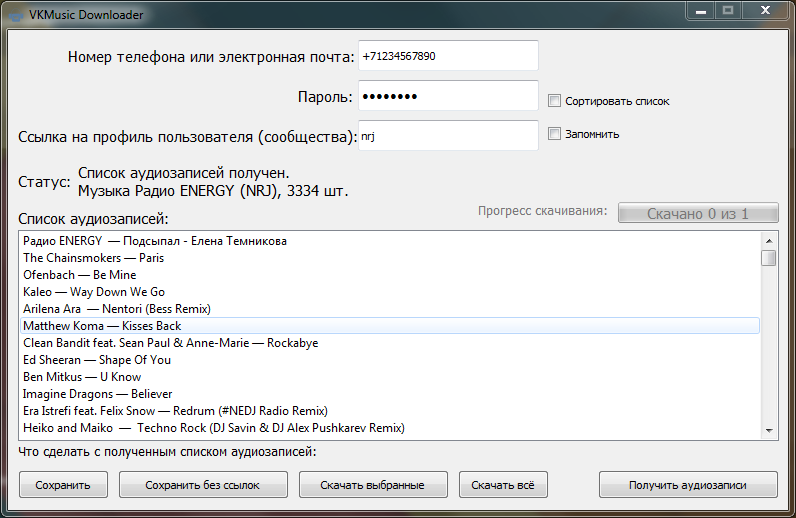
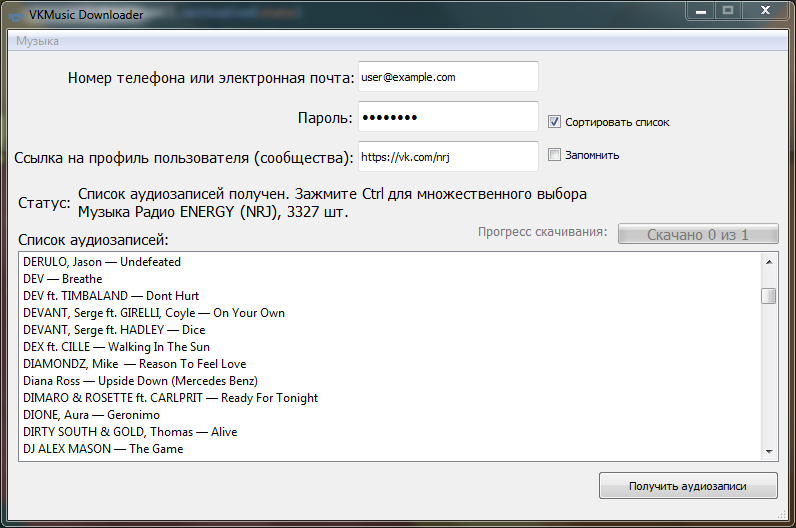
Версия 0.3.0: - Теперь возможно прослушивать аудиозаписи прямо в программе - возможность управлять воспроизведением (кроме перемотки) - небольшой редизайн графического интерфейса - добавлены сочетаня клавиш для управления списком аудиозаписей

Changed region(s): [[0.0, 0.0, 0.995, 0.9884], [0.0, 0.9266, 0.6935, 0.9884], [0.9648, 0.556, 0.995, 0.5869]]

diff --git a/audio.py b/audio.py
@@ -24,7 +24,10 @@ import os.path
 import getpass
 import codecs
 from PyQt5 import QtWidgets
-from PyQt5.QtCore import QThread, pyqtSignal
+from PyQt5.QtCore import QThread, pyqtSignal, QSizeF, QUrl, Qt
+from PyQt5.QtGui import QIcon
+from PyQt5.QtMultimedia import QMediaPlayer, QMediaContent
+from PyQt5.QtMultimediaWidgets import QGraphicsVideoItem
 import audio_gui
 from vk_api import VkApi, exceptions
 from vk_api.audio_url_decoder import decode_audio_url
@@ -173,12 +176,42 @@ class VkAudioApp(QtWidgets.QMainWindow, audio_gui.Ui_MainWindow):
     def __init__(self):
         super().__init__()
         self.setupUi(self)
-        
+        self.statusBar()
+
         self.btnConfirm.clicked.connect(self.start)
-        self.saveAll.clicked.connect(self.save_all)
-        self.saveWithoutLinks.clicked.connect(self.save_without_links)
-        self.downloadAll.clicked.connect(self.download_all)
-        self.downloadSelected.clicked.connect(self.download_selected)
+
+        self.saveAll = QtWidgets.QAction(QIcon('save_all.png'), '&Сохранить', self)
+        self.saveAll.setStatusTip('Сохранить список аудиозаписей в файл со ссылками для их скачивания')
+        self.saveAll.setShortcut('Ctrl+S')
+        self.saveAll.setEnabled(False)
+        self.saveAll.triggered.connect(self.save_all)
+
+        self.saveWithoutLinks = QtWidgets.QAction(QIcon('save_without_links.png'), '&Сохранить без ссылок', self)
+        self.saveWithoutLinks.setStatusTip('Сохранить список аудиозаписей в файл без ссылок для их скачивания')
+        self.saveWithoutLinks.setShortcut('Ctrl+Shift+S')
+        self.saveWithoutLinks.setEnabled(False)
+        self.saveWithoutLinks.triggered.connect(self.save_without_links)
+
+        self.downloadAll = QtWidgets.QAction(QIcon('download_all.png'), '&Скачать всё', self)
+        self.downloadAll.setStatusTip('Скачать все аудиозаписи из списка ниже')
+        self.downloadAll.setShortcut('Ctrl+D')
+        self.downloadAll.setEnabled(False)
+        self.downloadAll.triggered.connect(self.download_all)
+
+        self.downloadSelected = QtWidgets.QAction(QIcon('download_selected.png'), '&Скачать выбранное', self)
+        self.downloadSelected.setStatusTip('Скачать выбранные ауиозаписи из списка ниже')
+        self.downloadSelected.setShortcut('Ctrl+Shift+D')
+        self.downloadSelected.setEnabled(False)
+        self.downloadSelected.triggered.connect(self.download_selected)
+
+        menu_bar = self.menuBar()
+        music_menu = menu_bar.addMenu('&Музыка')
+        music_menu.addAction(self.saveAll)
+        music_menu.addAction(self.saveWithoutLinks)
+        music_menu.addAction(self.downloadAll)
+        music_menu.addAction(self.downloadSelected)
+
+        self.trackList.itemDoubleClicked.connect(self.play_track)
         
         self.get_audio = GetAudioListThread()
         self.get_audio.signal.connect(self.finished)
@@ -186,7 +219,13 @@ class VkAudioApp(QtWidgets.QMainWindow, audio_gui.Ui_MainWindow):
         
         self.download_audio = DownloadAudio()
         self.download_audio.signal.connect(self.done)
-        self.download_audio.int_signal.connect(self.change_progress)
+        self.download_audio.int_signal.connect(lambda x: self.progressBar.setValue(x))
+
+        video_item = QGraphicsVideoItem()
+        self.current_volume = 100
+        video_item.setSize(QSizeF(1, 1))
+        self.mediaPlayer = QMediaPlayer(None, QMediaPlayer.VideoSurface)
+        self.mediaPlayer.setVideoOutput(video_item)
         
         if info:
             self.login.setText(info[0])
@@ -194,7 +233,6 @@ class VkAudioApp(QtWidgets.QMainWindow, audio_gui.Ui_MainWindow):
             self.user_link.setText(info[2])
 
         # TODO Реализовать автообновление программы
-        # update = QtWidgets.QMessageBox.question(self, 'Доступно обновление', 'Установить обновление 0.2.0')
         
         self.tracks = None
         self.string = None
@@ -229,7 +267,9 @@ class VkAudioApp(QtWidgets.QMainWindow, audio_gui.Ui_MainWindow):
         if result and isinstance(result, tuple):
             self.tracks = result[0]
             self.string = result[1]
-            self.statusInfo.setText('Список аудиозаписей получен.\n{}, {} шт.'.format(self.string, len(self.tracks)))
+            self.statusInfo.setText('Список аудиозаписей получен.'
+                                    ' Зажмите Ctrl для множественного выбора'
+                                    '\n{}, {} шт.'.format(self.string, len(self.tracks)))
             # row = 0
             self.trackList.setEnabled(True)
             self.toggle_buttons(True)
@@ -317,8 +357,40 @@ class VkAudioApp(QtWidgets.QMainWindow, audio_gui.Ui_MainWindow):
                                     ' произошла ошибка: {}'
                                     '</span></p></body></html>'.format(result))
 
-    def change_progress(self, result):
-        self.progressBar.setValue(result)
+    def play_track(self):
+        selected = self.trackList.selectedItems()
+        selected_tracks = []
+        for element in selected:
+            for track in self.tracks:
+                if element.text() in '%(artist)s — %(title)s' % track:
+                    selected_tracks.append(track)
+                    break
+        local = QUrl(selected_tracks[0]['link'])
+        media = QMediaContent(local)
+        self.mediaPlayer.setMedia(media)
+        self.mediaPlayer.play()
+        self.toggle_fields(False)
+        self.toggle_buttons(False)
+        self.downloadSelected.setEnabled(True)
+
+    def keyPressEvent(self, e):
+        if e.key() == Qt.Key_Alt:
+            self.mediaPlayer.stop()
+            self.toggle_fields(True)
+            self.toggle_buttons(True)
+        elif e.key() == Qt.Key_Up:
+            if self.current_volume < 100:
+                self.current_volume += 2
+                self.mediaPlayer.setVolume(self.current_volume)
+        elif e.key() == Qt.Key_Down:
+            if self.current_volume > 0:
+                self.current_volume -= 2
+                self.mediaPlayer.setVolume(self.current_volume)
+        elif e.key() == Qt.Key_Space:
+            if self.mediaPlayer.state() == 1:
+                self.mediaPlayer.pause()
+            elif self.mediaPlayer.state() == 2:
+                self.mediaPlayer.play()
 
     def toggle_buttons(self, state: bool):
         self.downloadAll.setEnabled(state)
@@ -326,6 +398,14 @@ class VkAudioApp(QtWidgets.QMainWindow, audio_gui.Ui_MainWindow):
         self.saveWithoutLinks.setEnabled(state)
         self.downloadSelected.setEnabled(state)
         self.btnConfirm.setEnabled(state)
+
+    def toggle_fields(self, state: bool):
+        self.login.setEnabled(state)
+        self.password.setEnabled(state)
+        self.user_link.setEnabled(state)
+        self.trackList.setEnabled(state)
+        self.saveData.setEnabled(state)
+        self.enableSorting.setEnabled(state)
 
 
 def ui():

diff --git a/audio_gui.py b/audio_gui.py
@@ -31,9 +31,9 @@ class Ui_MainWindow(object):
     def setupUi(self, MainWindow):
         MainWindow.setObjectName("MainWindow")
         MainWindow.setEnabled(True)
-        MainWindow.resize(780, 480)
-        MainWindow.setMinimumSize(QtCore.QSize(780, 480))
-        MainWindow.setMaximumSize(QtCore.QSize(780, 480))
+        MainWindow.resize(780, 490)
+        MainWindow.setMinimumSize(QtCore.QSize(780, 490))
+        MainWindow.setMaximumSize(QtCore.QSize(780, 490))
         icon = QtGui.QIcon()
         logo = resource_path("logo.png")
         icon.addPixmap(QtGui.QPixmap(logo), QtGui.QIcon.Normal, QtGui.QIcon.Off)
@@ -64,7 +64,7 @@ class Ui_MainWindow(object):
         self.password.setDragEnabled(False)
         self.password.setObjectName("password")
         self.link_text = QtWidgets.QLabel(self.centralwidget)
-        self.link_text.setGeometry(QtCore.QRect(10, 90, 351, 31))
+        self.link_text.setGeometry(QtCore.QRect(6, 90, 340, 31))
         font = QtGui.QFont()
         font.setPointSize(11)
         self.link_text.setFont(font)
@@ -73,7 +73,7 @@ class Ui_MainWindow(object):
         self.user_link.setGeometry(QtCore.QRect(350, 90, 181, 31))
         self.user_link.setObjectName("user_link")
         self.btnConfirm = QtWidgets.QPushButton(self.centralwidget)
-        self.btnConfirm.setGeometry(QtCore.QRect(590, 440, 181, 29))
+        self.btnConfirm.setGeometry(QtCore.QRect(590, 420, 181, 29))
         self.btnConfirm.setAutoDefault(False)
         self.btnConfirm.setDefault(False)
         self.btnConfirm.setObjectName("btnConfirm")
@@ -87,24 +87,6 @@ class Ui_MainWindow(object):
         self.saveData.setEnabled(True)
         self.saveData.setGeometry(QtCore.QRect(540, 90, 111, 27))
         self.saveData.setObjectName("saveData")
-        self.label_2 = QtWidgets.QLabel(self.centralwidget)
-        self.label_2.setGeometry(QtCore.QRect(10, 410, 331, 21))
-        font = QtGui.QFont()
-        font.setPointSize(10)
-        self.label_2.setFont(font)
-        self.label_2.setObjectName("label_2")
-        self.saveAll = QtWidgets.QPushButton(self.centralwidget)
-        self.saveAll.setEnabled(False)
-        self.saveAll.setGeometry(QtCore.QRect(10, 440, 91, 29))
-        self.saveAll.setObjectName("saveAll")
-        self.saveWithoutLinks = QtWidgets.QPushButton(self.centralwidget)
-        self.saveWithoutLinks.setEnabled(False)
-        self.saveWithoutLinks.setGeometry(QtCore.QRect(110, 440, 171, 29))
-        self.saveWithoutLinks.setObjectName("saveWithoutLinks")
-        self.downloadAll = QtWidgets.QPushButton(self.centralwidget)
-        self.downloadAll.setEnabled(False)
-        self.downloadAll.setGeometry(QtCore.QRect(450, 440, 91, 29))
-        self.downloadAll.setObjectName("downloadAll")
         self.statusInfo = QtWidgets.QLabel(self.centralwidget)
         self.statusInfo.setGeometry(QtCore.QRect(70, 130, 701, 41))
         font = QtGui.QFont()
@@ -119,10 +101,6 @@ class Ui_MainWindow(object):
         font.setPointSize(11)
         self.label_4.setFont(font)
         self.label_4.setObjectName("label_4")
-        self.downloadSelected = QtWidgets.QPushButton(self.centralwidget)
-        self.downloadSelected.setEnabled(False)
-        self.downloadSelected.setGeometry(QtCore.QRect(290, 440, 151, 29))
-        self.downloadSelected.setObjectName("downloadSelected")
         self.progressBar = QtWidgets.QProgressBar(self.centralwidget)
         self.progressBar.setEnabled(False)
         self.progressBar.setGeometry(QtCore.QRect(610, 172, 161, 21))
@@ -147,11 +125,12 @@ class Ui_MainWindow(object):
         self.trackList.setEnabled(False)
         self.trackList.setGeometry(QtCore.QRect(10, 200, 761, 211))
         self.trackList.setEditTriggers(QtWidgets.QAbstractItemView.NoEditTriggers)
-        self.trackList.setSelectionMode(QtWidgets.QAbstractItemView.MultiSelection)
+        self.trackList.setSelectionMode(QtWidgets.QAbstractItemView.ExtendedSelection)
         self.trackList.setObjectName("trackList")
         self.enableSorting = QtWidgets.QCheckBox(self.centralwidget)
         self.enableSorting.setGeometry(QtCore.QRect(540, 50, 171, 41))
         self.enableSorting.setStatusTip("")
+        self.enableSorting.setChecked(True)
         self.enableSorting.setTristate(False)
         self.enableSorting.setObjectName("enableSorting")
         MainWindow.setCentralWidget(self.centralwidget)
@@ -170,20 +149,10 @@ class Ui_MainWindow(object):
         self.status_label.setText(_translate("MainWindow", "Статус:"))
         self.saveData.setToolTip(_translate("MainWindow", "Сохранить введенные данные?"))
         self.saveData.setText(_translate("MainWindow", "Запомнить"))
-        self.label_2.setText(_translate("MainWindow", "Что сделать с полученным списком аудиозаписей:"))
-        self.saveAll.setToolTip(_translate("MainWindow", "Сохранить список аудиозаписей в файл со ссылками для их скачивания"))
-        self.saveAll.setText(_translate("MainWindow", "Сохранить"))
-        self.saveWithoutLinks.setToolTip(_translate("MainWindow", "Сохранить список аудиозаписей в файл без ссылок для их скачивания"))
-        self.saveWithoutLinks.setText(_translate("MainWindow", "Сохранить без ссылок"))
-        self.downloadAll.setToolTip(_translate("MainWindow", "Скачать все аудиозаписи из списка выше"))
-        self.downloadAll.setText(_translate("MainWindow", "Скачать всё"))
         self.statusInfo.setText(_translate("MainWindow", "Готов к работе."))
         self.label_4.setText(_translate("MainWindow", "Список аудиозаписей:"))
-        self.downloadSelected.setToolTip(_translate("MainWindow", "Скачать выбранные ауиозаписи из списка выше"))
-        self.downloadSelected.setText(_translate("MainWindow", "Скачать выбранные"))
         self.progressBar.setFormat(_translate("MainWindow", "Скачано %v из %m"))
         self.progress_label.setText(_translate("MainWindow", "Прогресс скачивания:"))
-        self.trackList.setSortingEnabled(False)
         self.enableSorting.setToolTip(_translate("MainWindow", "Сортировать спсиок в алфавитном порядке?"))
         self.enableSorting.setText(_translate("MainWindow", "Сортировать список"))
 
